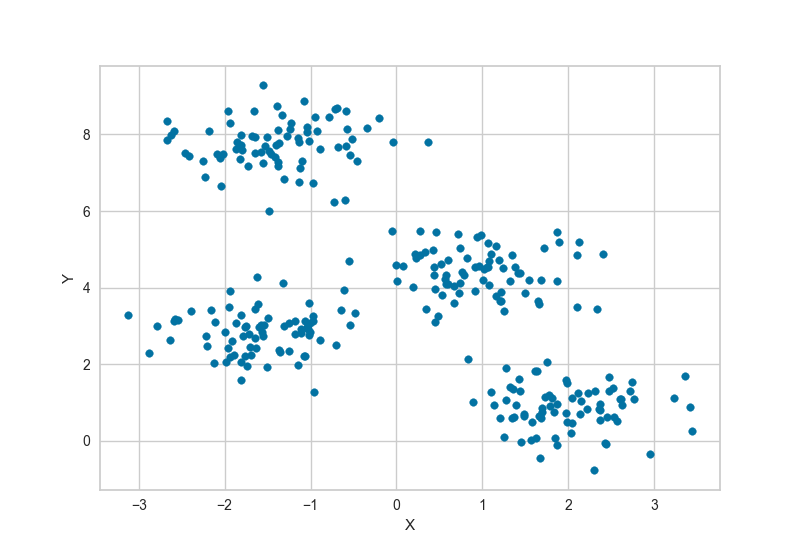
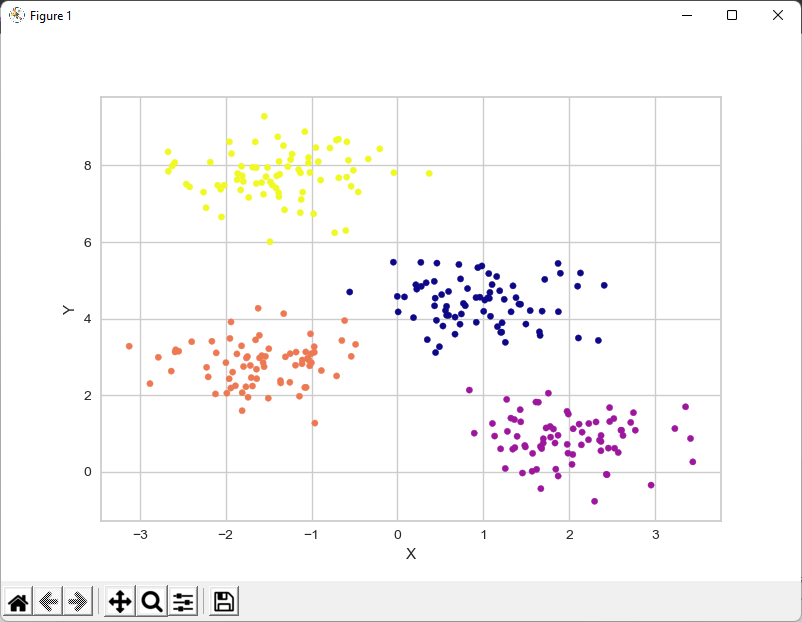
added pictures

diff --git a/Homework 2/README.md b/Homework 2/README.md
@@ -1,6 +1,5 @@
 # Homework 2
 
-
 #### **Team member names:**
 
 **_Owen Senowitz_**----
@@ -12,8 +11,6 @@ kinlawj19@students.ecu.edu
 **_Tyler Blue_**------------
 bluet19@students.ecu.edu
 
-
-
 #### **Important Libraries:**
 
 1. seaborn
@@ -23,3 +20,5 @@ bluet19@students.ecu.edu
 5. pillow
 
 ![](confusionMatrix.png)
+![](elbow.png)
+![](scatterPlot.png)
